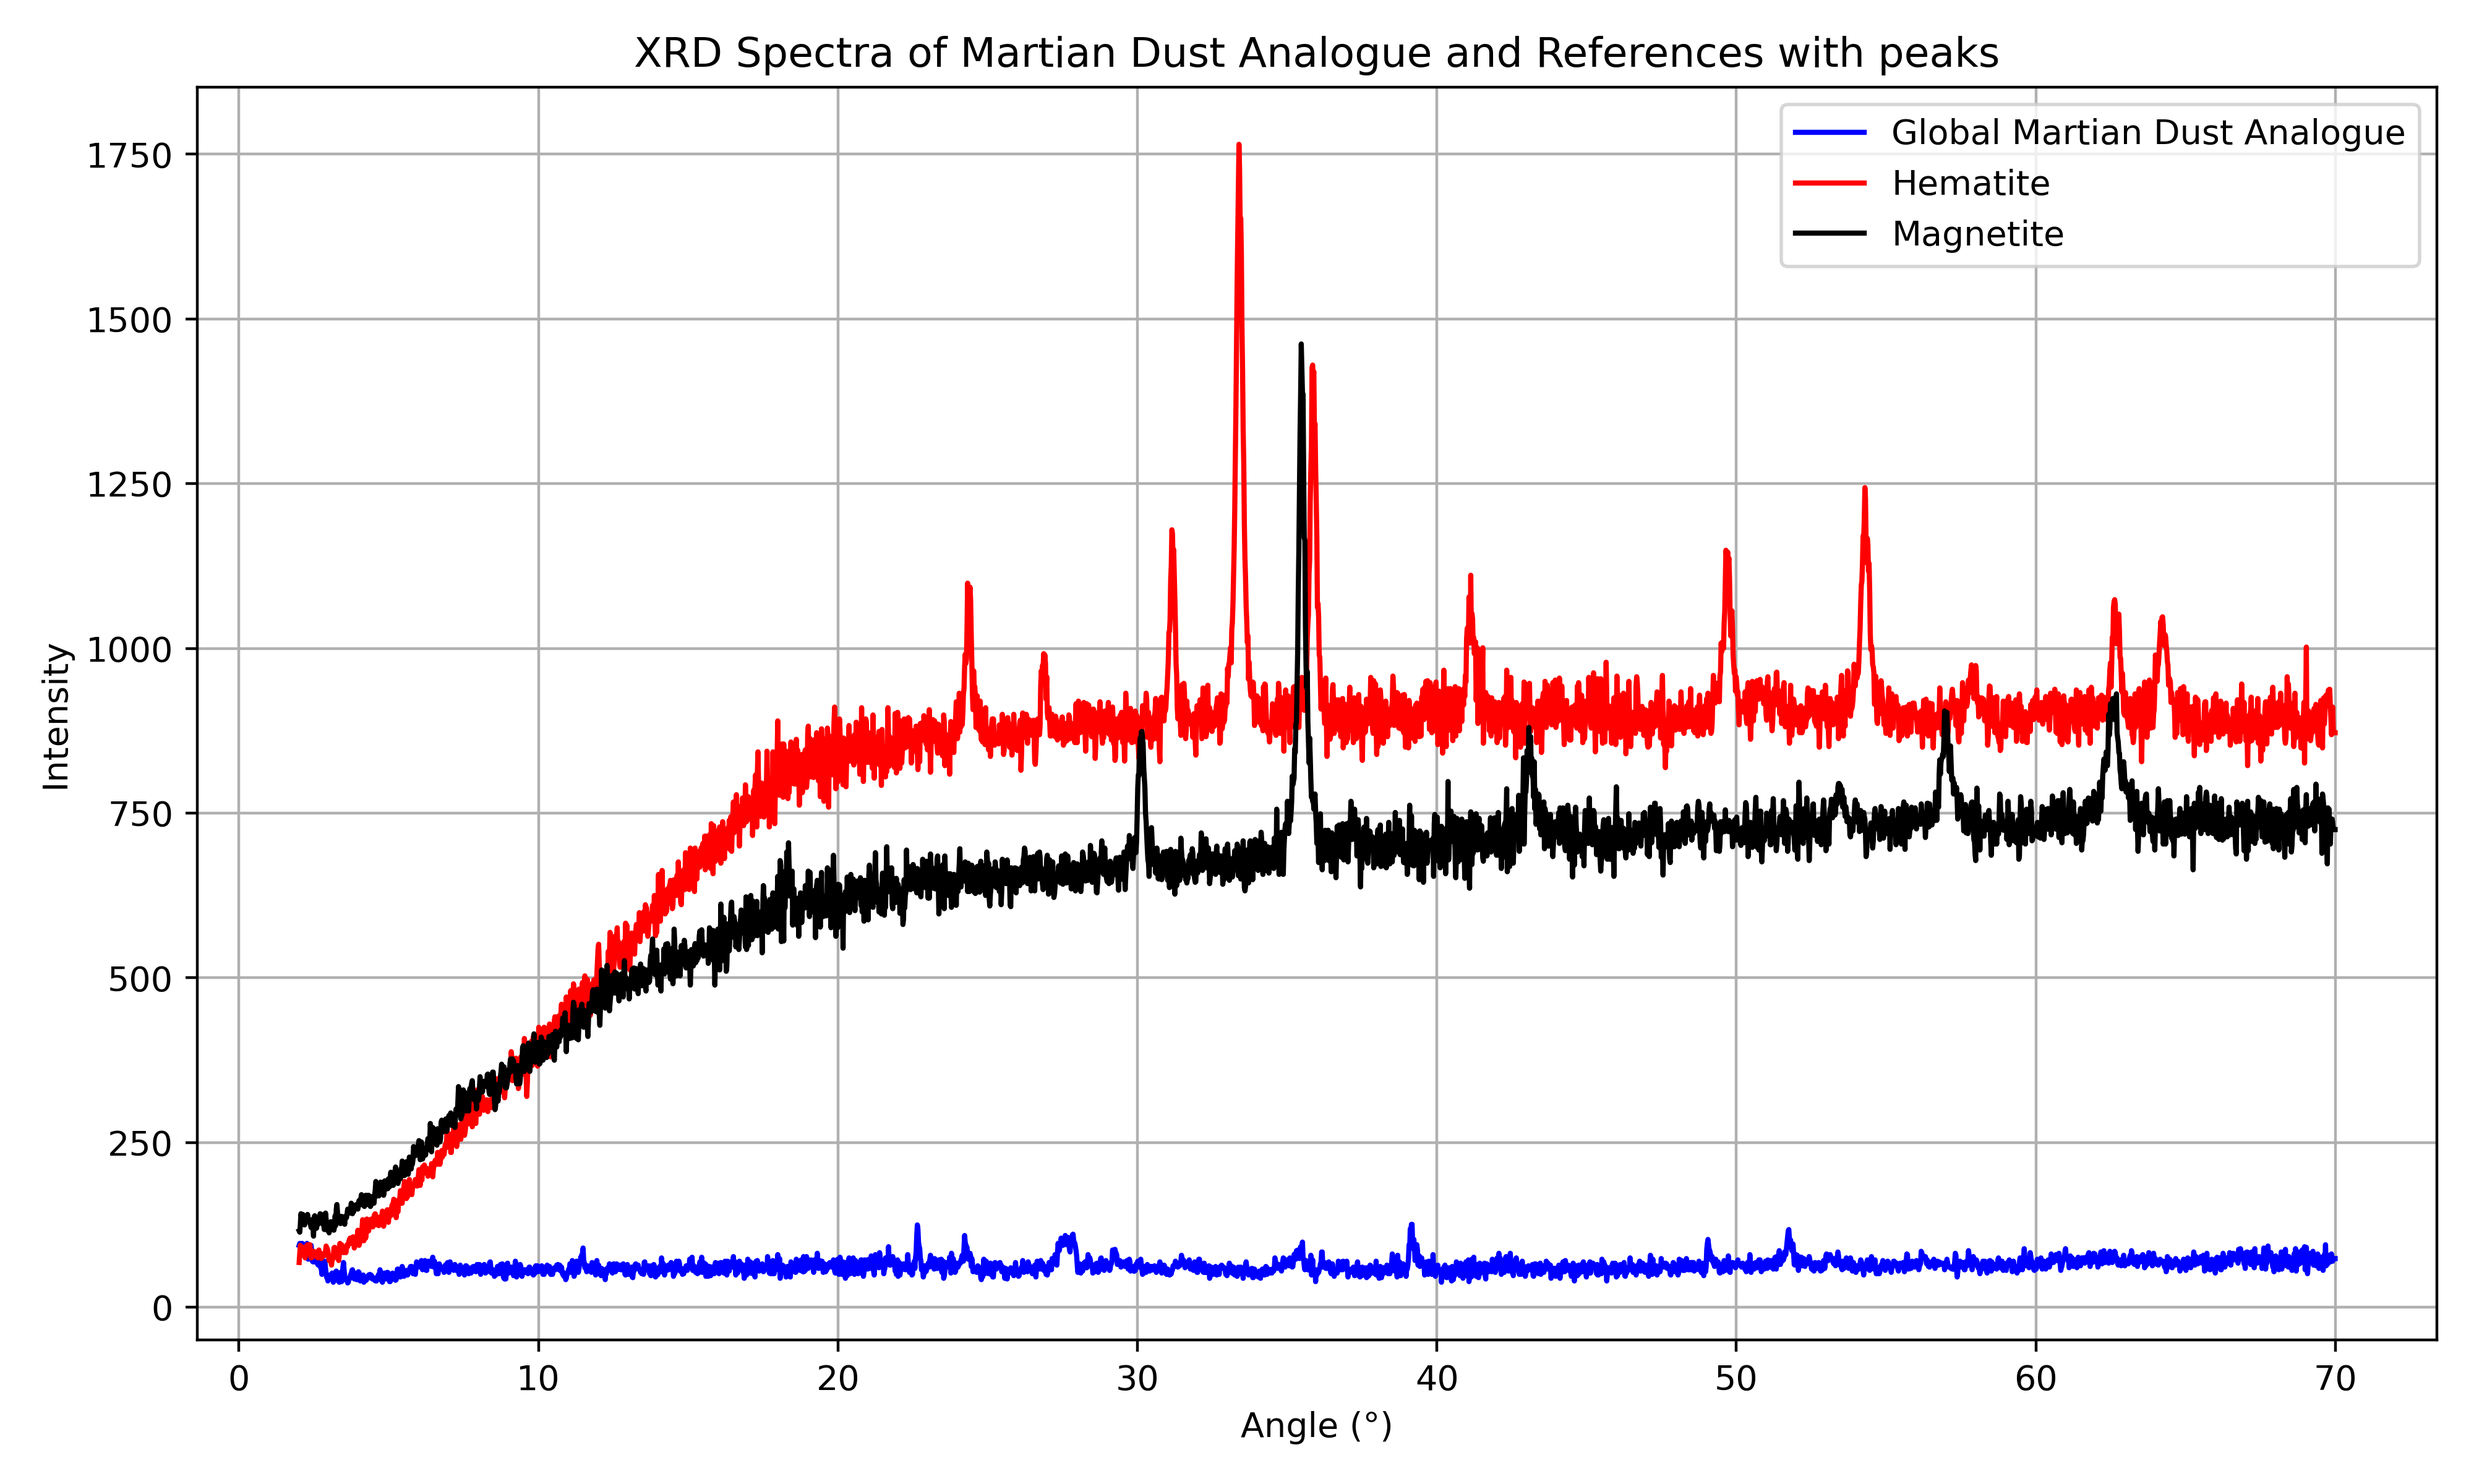
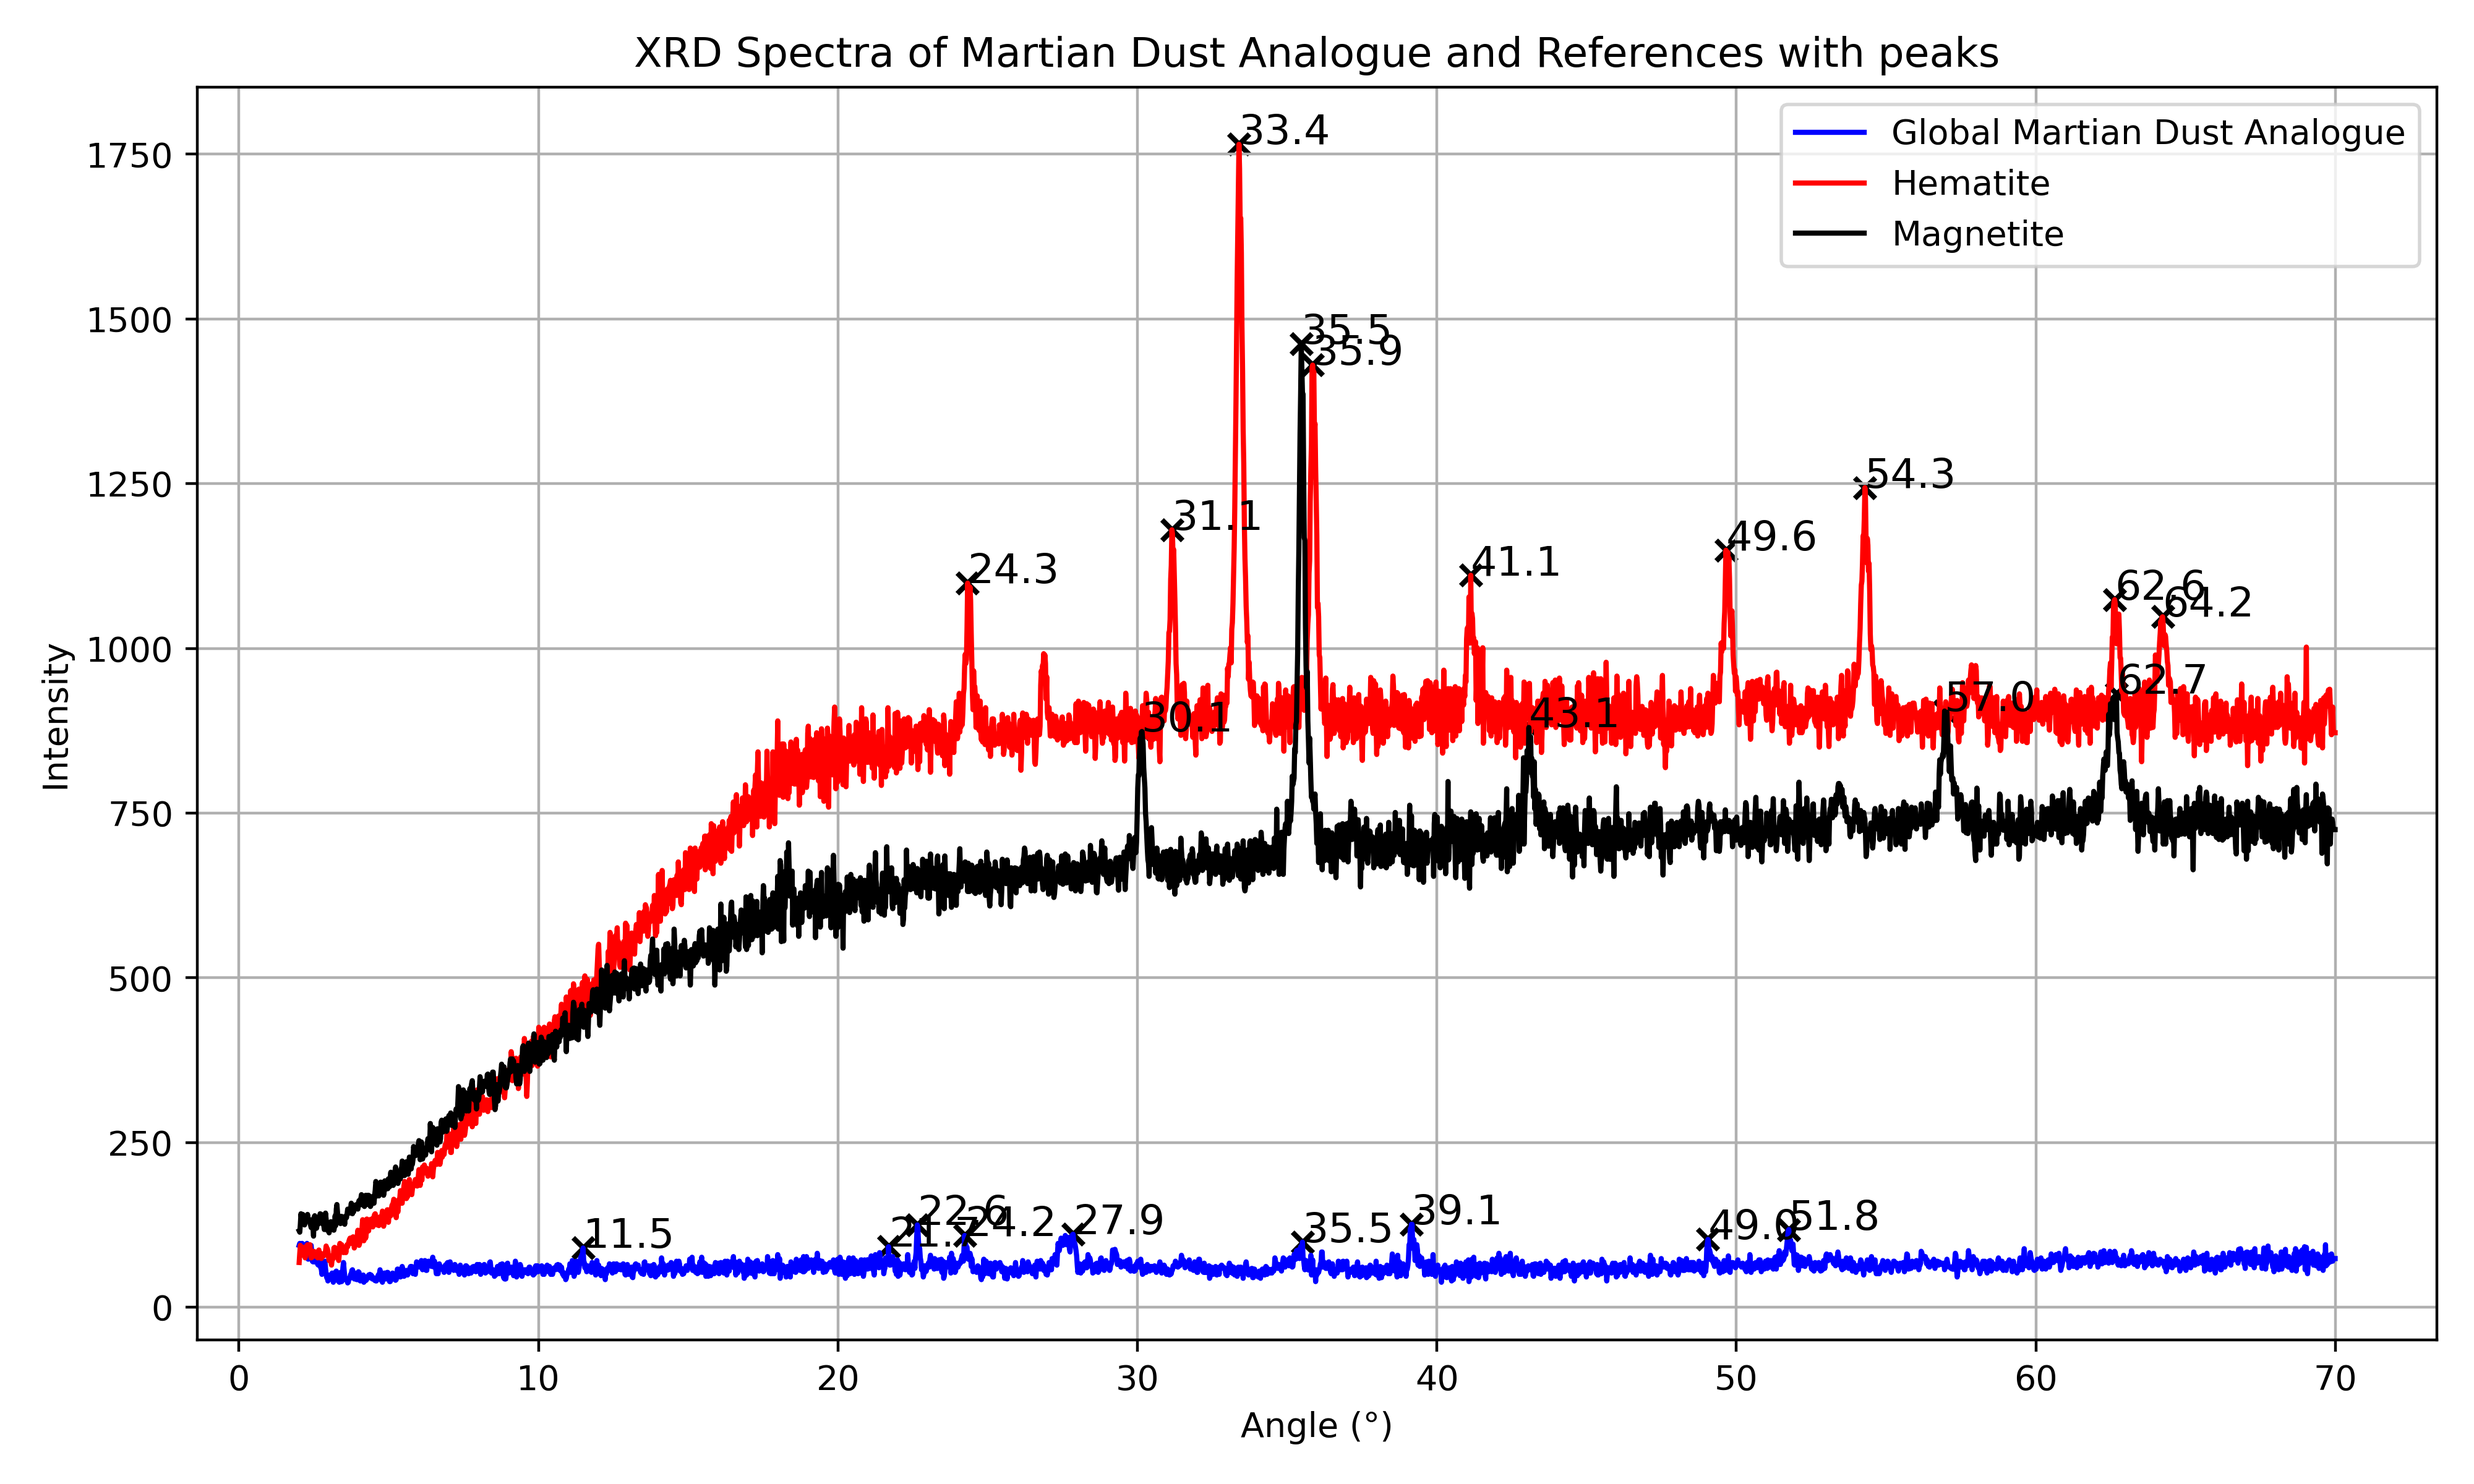
XRD with peaks

diff --git a/XRD.py b/XRD.py
@@ -17,10 +17,10 @@ def read_spectrum(filepath: str):
     
     return angle, intensity
 
-def detect_peaks(wavenumber, transmittance, height=10000):
-    inverted = -transmittance
-    peaks, _ = find_peaks(inverted, height=height)
-    return wavenumber[peaks], transmittance[peaks]
+def detect_peaks(angle, intensity, prominence=200, distance=1):
+    peaks, _ = find_peaks(intensity, prominence=prominence, distance=distance)
+
+    return angle[peaks], intensity[peaks]
 
 # Read data
 AEMA01_angle, AEMA01_intensity = read_spectrum(r"XRD\\mars_analogue.txt")    # Martian dust analogue
@@ -28,9 +28,9 @@ AEFE01_angle, AEFE01_intensity = read_spectrum(r"XRD\\aefe01.txt")  # Hematite r
 AEFE02_angle, AEFE02_intensity = read_spectrum(r"XRD\\aefe02.txt")  # Magnetite reference
 
 # Get peaks
-AEMA01_peaks = detect_peaks(AEMA01_angle, AEMA01_intensity)
-AEFE01_peaks = detect_peaks(AEFE01_angle, AEFE01_intensity)
-AEFE02_peaks = detect_peaks(AEFE02_angle, AEFE02_intensity)
+AEMA01_peaks = detect_peaks(AEMA01_angle, AEMA01_intensity, 45, 1)
+AEFE01_peaks = detect_peaks(AEFE01_angle, AEFE01_intensity, 200, 1)
+AEFE02_peaks = detect_peaks(AEFE02_angle, AEFE02_intensity, 200, 1)
 
 # Define the spectra data and metadata for plotting
 to_plot = [
@@ -44,9 +44,10 @@ for item in to_plot:
     plt.figure(figsize=(10, 6))
     plt.plot(item[1], item[2], label=item[3], color=item[4])
     # Mark peaks
-    plt.scatter(*item[5], color=item[4], marker='x')
+    peakColour = "brown"
+    plt.scatter(*item[5], color=peakColour, marker='x')
     for wn, tr in zip(*item[5]):
-        plt.text(wn, tr, f"{wn:.1f}", fontsize=12, color=item[4])
+        plt.text(wn, tr, f"{wn:.1f}", fontsize=12, color=peakColour)
 
     plt.xlabel('Angle (°)')
     plt.ylabel('Intensity')
@@ -60,11 +61,18 @@ for item in to_plot:
 # Plot all spectra together
 plt.figure(figsize=(10, 6))
 plt.plot(AEMA01_angle, AEMA01_intensity, label="Global Martian Dust Analogue", color="blue")
-plt.scatter(*AEMA01_peaks, color="blue")
 plt.plot(AEFE01_angle, AEFE01_intensity, label="Hematite", color="red")
-plt.scatter(*AEFE01_peaks, color="red")
 plt.plot(AEFE02_angle, AEFE02_intensity, label="Magnetite", color="black")
-plt.scatter(*AEFE02_peaks, color="black")
+peakColour = "black"
+plt.scatter(*AEMA01_peaks, color=peakColour, marker='x')
+plt.scatter(*AEFE01_peaks, color=peakColour, marker='x')
+plt.scatter(*AEFE02_peaks, color=peakColour, marker='x')
+for wn, tr in zip(*AEMA01_peaks):
+    plt.text(wn, tr, f"{wn:.1f}", fontsize=12, color=peakColour)
+for wn, tr in zip(*AEFE01_peaks):
+    plt.text(wn, tr, f"{wn:.1f}", fontsize=12, color=peakColour)
+for wn, tr in zip(*AEFE02_peaks):
+    plt.text(wn, tr, f"{wn:.1f}", fontsize=12, color=peakColour)
 plt.xlabel('Angle (°)')
 plt.ylabel('Intensity')
 plt.title("XRD Spectra of Martian Dust Analogue and References with peaks")
